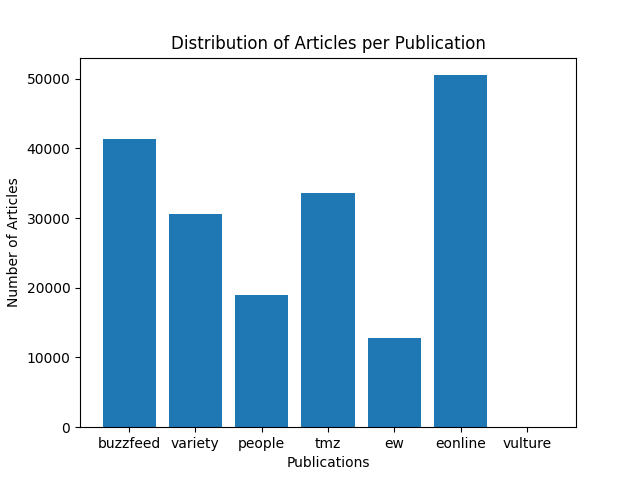
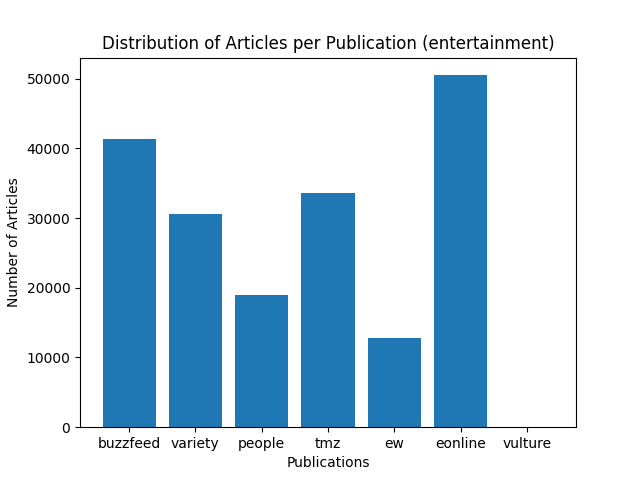
fix: use data_dict instead of pub_dict in bar_plot method

Changed region(s): [[0.1562, 0.0625, 0.875, 0.125]]

diff --git a/data/analysis.py b/data/analysis.py
@@ -15,7 +15,7 @@ def get_publications_dict(domain):
     return pub_dict
 
 def bar_plot(data_dict, xlabel, ylabel, title, save_fig):
-    plt.bar(pub_dict.keys(), pub_dict.values())
+    plt.bar(data_dict.keys(), data_dict.values())
     plt.xlabel(xlabel)
     plt.ylabel(ylabel)
     plt.title(title)
@@ -30,7 +30,7 @@ for d in domains:
     pub_dict = get_publications_dict(d)
     
     print(f'Publication dict for {d}:', pub_dict)
-    bar_plot(pub_dict, 'Publications', 'Number of Articles', 'Distribution of Articles per Publication', f'{d}_distribution.png')
+    bar_plot(pub_dict, 'Publications', 'Number of Articles', f'Distribution of Articles per Publication ({d})', f'{d}_distribution.png')
     
     domain_dict[d] = sum(pub_dict.values())
 
